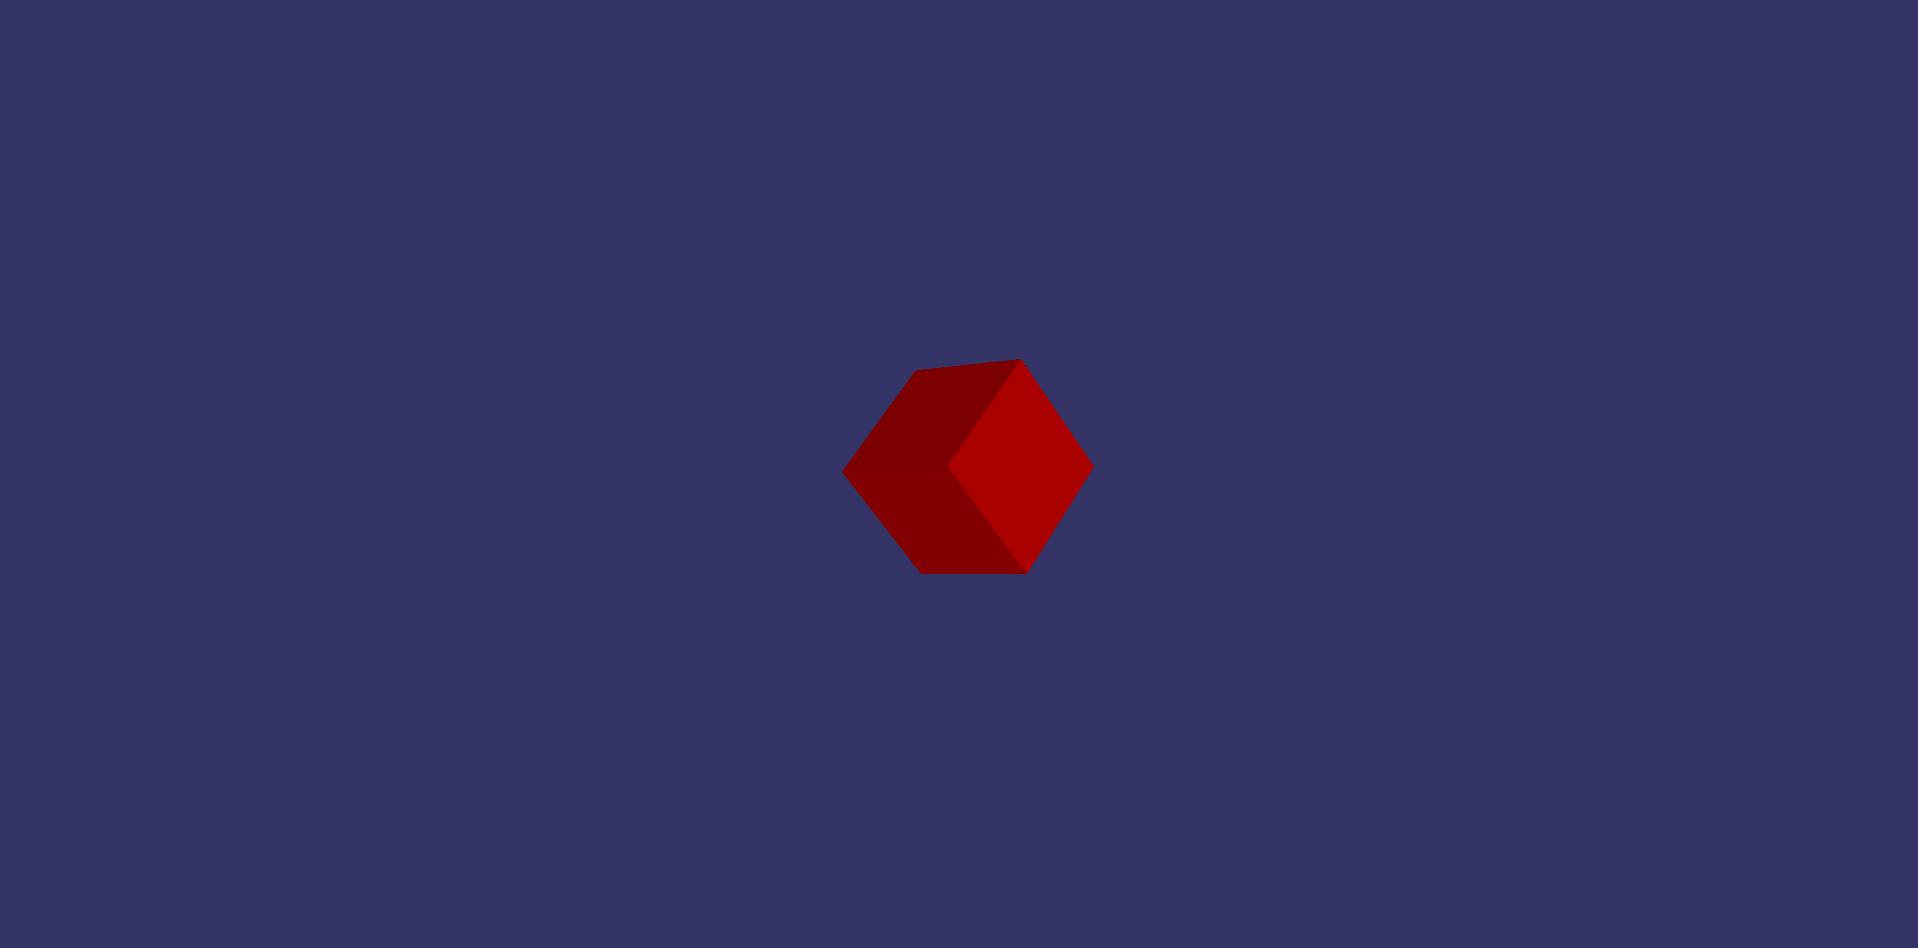
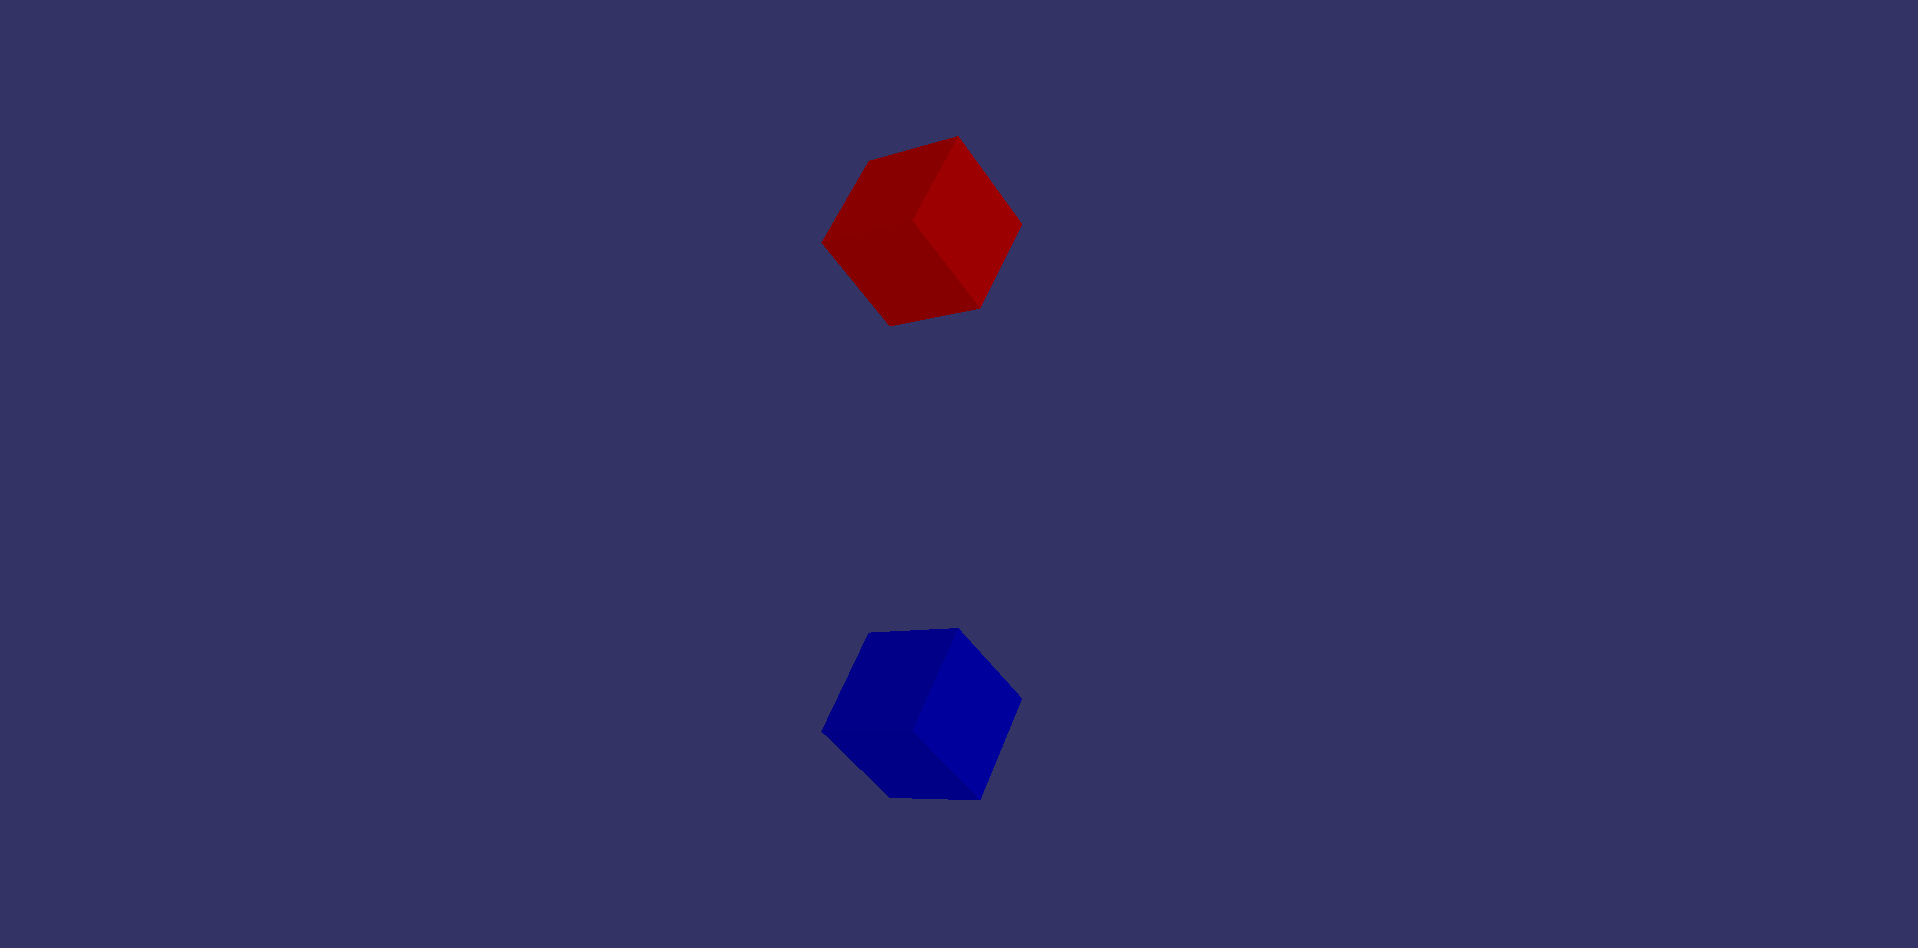
Punto 2
Implementation for point 2 done

Changed region(s): [[0.4307, 0.3671, 0.5845, 0.6118], [0.4307, 0.6424, 0.5537, 0.8565], [0.4307, 0.153, 0.5537, 0.3365]]

diff --git a/spinningcube.cpp b/spinningcube.cpp
@@ -23,16 +23,16 @@
 int main(int argc, char** argv) {
     // Create a root node
     osg::ref_ptr<osg::Group> root = new osg::Group;
+
     
     //Enable Default Light
     osg::ref_ptr<osg::StateSet> ss = root->getOrCreateStateSet();
 	ss->setMode(GL_LIGHTING, osg::StateAttribute::ON);
-    
 
     // Create a transform node to displace the cube
     osg::ref_ptr<osg::MatrixTransform> cubeTransform = new osg::MatrixTransform;
     osg::Matrix matrix;
-    matrix.makeTranslate(0.0f, -5.0f, 0.0f); // move the cube negative 5 units in the z axis
+    matrix.makeTranslate(0.0f, -8.0f, 0.0f); // move the cube negative 5 units in the z axis
     cubeTransform->setMatrix(matrix);
 
     // Create a geode to hold the cube shape
@@ -56,20 +56,64 @@ int main(int argc, char** argv) {
 
     // Add the transform node to the root node
     root->addChild(cubeTransform);
-
+    
     // Create a rotation animation and orbiting aroung (0.0f, -5.f, 0.0f)
     
     osg::ref_ptr<osg::AnimationPath> rotationAnimation = new osg::AnimationPath;
     rotationAnimation->setLoopMode(osg::AnimationPath::LOOP);
-    rotationAnimation->insert(0.0, osg::AnimationPath::ControlPoint(osg::Vec3(4.0f, 0.0f, 0.0f), osg::Quat(0.0, osg::Vec3(1.0, 0.0, 0.0))));
-    rotationAnimation->insert(3.0, osg::AnimationPath::ControlPoint(osg::Vec3(0.0f, 4.0f, 0.0f), osg::Quat(osg::PI_2, osg::Vec3(1.0, 1.0, 0.0))));
-    rotationAnimation->insert(6.0, osg::AnimationPath::ControlPoint(osg::Vec3(-4.0f, 0.0f, 0.0f), osg::Quat(osg::PI_2, osg::Vec3(0.0, 0.0, 1.0))));
-    rotationAnimation->insert(9.0, osg::AnimationPath::ControlPoint(osg::Vec3(0.0f, -4.0f, 0.0f), osg::Quat(osg::PI_2, osg::Vec3(-1.0, -1.0, 0.0))));
-    rotationAnimation->insert(12.0, osg::AnimationPath::ControlPoint(osg::Vec3(4.0f, 0.0f, 0.0f), osg::Quat(osg::PI_2, osg::Vec3(0.0, 0.0, -1.0))));
+    rotationAnimation->insert(0.0, osg::AnimationPath::ControlPoint(osg::Vec3(4.0f, 0.0f, 2.0f), osg::Quat(0.0, osg::Vec3(1.0, 0.0, 0.0))));
+    rotationAnimation->insert(3.0, osg::AnimationPath::ControlPoint(osg::Vec3(0.0f, 4.0f, 2.0f), osg::Quat(osg::PI_2, osg::Vec3(1.0, 1.0, 0.0))));
+    rotationAnimation->insert(6.0, osg::AnimationPath::ControlPoint(osg::Vec3(-4.0f, 0.0f, 2.0f), osg::Quat(osg::PI_2, osg::Vec3(0.0, 0.0, 1.0))));
+    rotationAnimation->insert(9.0, osg::AnimationPath::ControlPoint(osg::Vec3(0.0f, -4.0f, 2.0f), osg::Quat(osg::PI_2, osg::Vec3(-1.0, -1.0, 0.0))));
+    rotationAnimation->insert(12.0, osg::AnimationPath::ControlPoint(osg::Vec3(4.0f, 0.0f, 2.0f), osg::Quat(osg::PI_2, osg::Vec3(0.0, 0.0, -1.0))));
     osg::ref_ptr<osg::AnimationPathCallback> rotationCallback = new osg::AnimationPathCallback(rotationAnimation);
-
+    
+    
     // Attach rotation animation to the transform node
     cubeTransform->setUpdateCallback(rotationCallback);
+    
+    //Second Cube
+    
+    // Create a transform node to displace the cube
+    osg::ref_ptr<osg::MatrixTransform> cubeTransform2 = new osg::MatrixTransform;
+    osg::Matrix matrix2;
+    matrix2.makeTranslate(0.0f, -8.0f, 0.0f); // move the cube negative 5 units in the z axis and 2
+    cubeTransform2->setMatrix(matrix2);
+
+    // Create a geode to hold the cube shape
+    osg::ref_ptr<osg::Geode> geode2 = new osg::Geode;
+    
+    // Create a cube shape
+    osg::ref_ptr<osg::Box> box2 = new osg::Box(osg::Vec3(0, 0, 0), 1.0f);
+    osg::ref_ptr<osg::ShapeDrawable> shapeDrawable2 = new osg::ShapeDrawable(box2);
+
+    // Set the color of the cube
+    osg::ref_ptr<osg::Vec4Array> colors2 = new osg::Vec4Array;
+    colors2->push_back(osg::Vec4(0.0f, 0.0f, 1.0f, 1.0f)); // Blue color
+    shapeDrawable2->setColorArray(colors2);
+    shapeDrawable2->setColorBinding(osg::Geometry::BIND_OVERALL);
+
+    // Add the shape to the geode
+    geode2->addDrawable(shapeDrawable2);
+
+    // Add the geode to the transform node
+    cubeTransform2->addChild(geode2);
+
+    // Add the transform node to the root node
+    root->addChild(cubeTransform2);
+    
+    // Second Cube Rotation Animation
+    osg::ref_ptr<osg::AnimationPath> rotationAnimation2 = new osg::AnimationPath;
+    rotationAnimation2->setLoopMode(osg::AnimationPath::LOOP);
+    rotationAnimation2->insert(0.0, osg::AnimationPath::ControlPoint(osg::Vec3(4.0f, 0.0f, -2.0f), osg::Quat(0.0, osg::Vec3(1.0, 0.0, 0.0))));
+    rotationAnimation2->insert(3.0, osg::AnimationPath::ControlPoint(osg::Vec3(0.0f, 4.0f, -2.0f), osg::Quat(osg::PI_2, osg::Vec3(1.0, 1.0, 0.0))));
+    rotationAnimation2->insert(6.0, osg::AnimationPath::ControlPoint(osg::Vec3(-4.0f, 0.0f, -2.0f), osg::Quat(osg::PI_2, osg::Vec3(0.0, 0.0, 1.0))));
+    rotationAnimation2->insert(9.0, osg::AnimationPath::ControlPoint(osg::Vec3(0.0f, -4.0f, -2.0f), osg::Quat(osg::PI_2, osg::Vec3(-1.0, -1.0, 0.0))));
+    rotationAnimation2->insert(12.0, osg::AnimationPath::ControlPoint(osg::Vec3(4.0f, 0.0f, -2.0f), osg::Quat(osg::PI_2, osg::Vec3(0.0, 0.0, -1.0))));
+	osg::ref_ptr<osg::AnimationPathCallback> rotationCallback2 = new osg::AnimationPathCallback(rotationAnimation2);
+    
+    // Attach rotation animation to the second transform node
+    cubeTransform2->setUpdateCallback(rotationCallback2);
 
     // Create a viewer
     osgViewer::Viewer viewer;

diff --git a/historicos/spinningcubeV1.cpp b/historicos/spinningcubeV1.cpp
@@ -1,0 +1,82 @@
+/******************************************************
+ * Copyright (c) 2024 Diego Antonio López López       *
+ *               diego.a.lopez@udc.es                 *
+ *               Alejandro Rodríguez Vaquero          *
+ *               a.vaquero@udc.es                     *
+ *                                                    *
+ * This code is for the IGM course assignment         *
+ * in OpenSceneGraph                                  *
+ * from the MUEI "Universidade da Coruña"             *
+ * to the date 03-04-2024 and is free to use          *
+ * and distribute.                                    *
+ ******************************************************/
+
+#include <osg/Geode>
+#include <osg/Group>
+#include <osg/ShapeDrawable>
+#include <osgViewer/Viewer>
+#include <osg/MatrixTransform>
+#include <osg/AnimationPath>
+#include <osgGA/KeySwitchMatrixManipulator>
+#include <osgGA/TrackballManipulator>
+
+int main(int argc, char** argv) {
+    // Create a root node
+    osg::ref_ptr<osg::Group> root = new osg::Group;
+    
+    //Enable Default Light
+    osg::ref_ptr<osg::StateSet> ss = root->getOrCreateStateSet();
+	ss->setMode(GL_LIGHTING, osg::StateAttribute::ON);
+    
+
+    // Create a transform node to displace the cube
+    osg::ref_ptr<osg::MatrixTransform> cubeTransform = new osg::MatrixTransform;
+    osg::Matrix matrix;
+    matrix.makeTranslate(0.0f, -5.0f, 0.0f); // move the cube negative 5 units in the z axis
+    cubeTransform->setMatrix(matrix);
+
+    // Create a geode to hold the cube shape
+    osg::ref_ptr<osg::Geode> geode = new osg::Geode;
+    
+    // Create a cube shape
+    osg::ref_ptr<osg::Box> box = new osg::Box(osg::Vec3(0, 0, 0), 1.0f);
+    osg::ref_ptr<osg::ShapeDrawable> shapeDrawable = new osg::ShapeDrawable(box);
+
+    // Set the color of the cube
+    osg::ref_ptr<osg::Vec4Array> colors = new osg::Vec4Array;
+    colors->push_back(osg::Vec4(1.0f, 0.0f, 0.0f, 1.0f)); // Red color
+    shapeDrawable->setColorArray(colors);
+    shapeDrawable->setColorBinding(osg::Geometry::BIND_OVERALL);
+
+    // Add the shape to the geode
+    geode->addDrawable(shapeDrawable);
+
+    // Add the geode to the transform node
+    cubeTransform->addChild(geode);
+
+    // Add the transform node to the root node
+    root->addChild(cubeTransform);
+
+    // Create a rotation animation and orbiting aroung (0.0f, -5.f, 0.0f)
+    
+    osg::ref_ptr<osg::AnimationPath> rotationAnimation = new osg::AnimationPath;
+    rotationAnimation->setLoopMode(osg::AnimationPath::LOOP);
+    rotationAnimation->insert(0.0, osg::AnimationPath::ControlPoint(osg::Vec3(4.0f, 0.0f, 0.0f), osg::Quat(0.0, osg::Vec3(1.0, 0.0, 0.0))));
+    rotationAnimation->insert(3.0, osg::AnimationPath::ControlPoint(osg::Vec3(0.0f, 4.0f, 0.0f), osg::Quat(osg::PI_2, osg::Vec3(1.0, 1.0, 0.0))));
+    rotationAnimation->insert(6.0, osg::AnimationPath::ControlPoint(osg::Vec3(-4.0f, 0.0f, 0.0f), osg::Quat(osg::PI_2, osg::Vec3(0.0, 0.0, 1.0))));
+    rotationAnimation->insert(9.0, osg::AnimationPath::ControlPoint(osg::Vec3(0.0f, -4.0f, 0.0f), osg::Quat(osg::PI_2, osg::Vec3(-1.0, -1.0, 0.0))));
+    rotationAnimation->insert(12.0, osg::AnimationPath::ControlPoint(osg::Vec3(4.0f, 0.0f, 0.0f), osg::Quat(osg::PI_2, osg::Vec3(0.0, 0.0, -1.0))));
+    osg::ref_ptr<osg::AnimationPathCallback> rotationCallback = new osg::AnimationPathCallback(rotationAnimation);
+
+    // Attach rotation animation to the transform node
+    cubeTransform->setUpdateCallback(rotationCallback);
+
+    // Create a viewer
+    osgViewer::Viewer viewer;
+    
+    // Set the scene data
+    viewer.setSceneData(root);
+
+    // Run the viewer
+    return viewer.run();
+}
